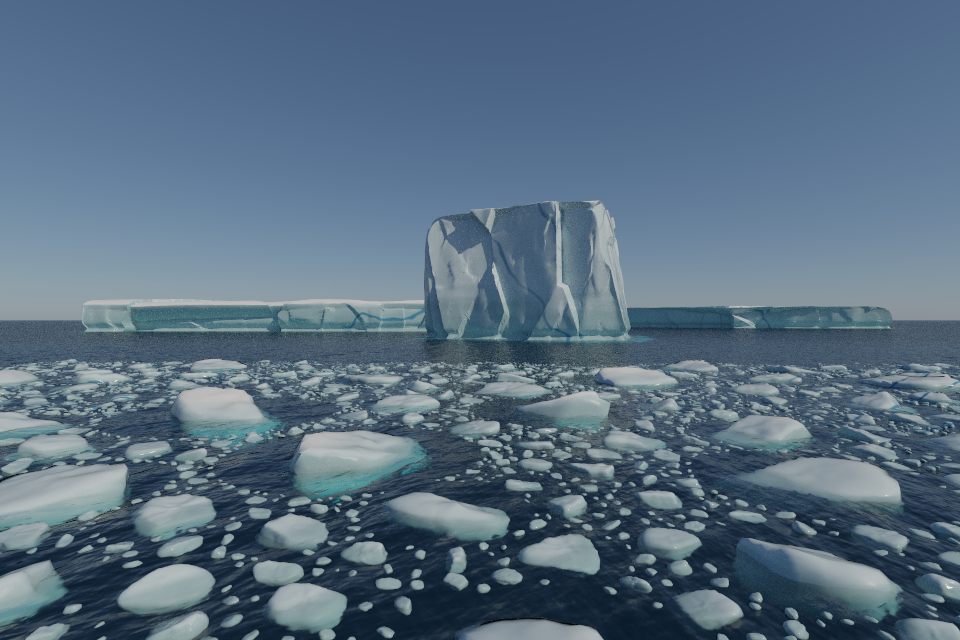
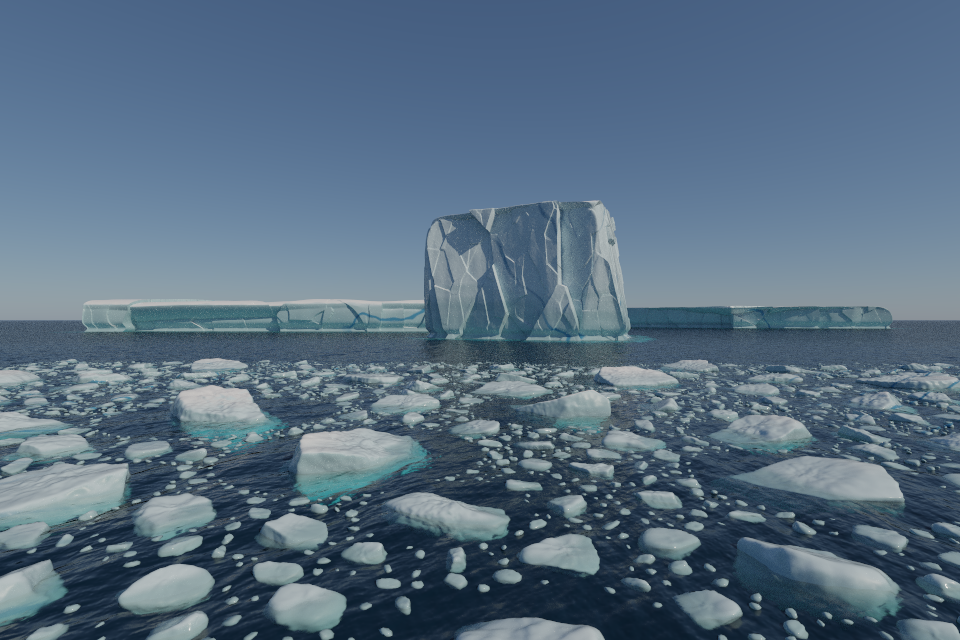
Icebergs at high resolution
Procedural geometry can be as fine as we like, so it is:
- bergs refine from a denser start, seven levels down to about a
  centimetre (several million triangles each), so steps between facets
  are 15 cm ramps rather than half a metre;
- melt scallops, shallow sharp-rimmed dimples a metre across, on berg
  faces and brash, now that the mesh resolves them;
- brash pieces get a geodesic sphere fine enough for 10-20 cm vertex
  spacing whatever their size;
- creased normals split a vertex only where its corners' normals
  differ, rather than giving every corner its own, so the dense meshes
  fit in memory (about 5 GB for the demo scene).

Claude-Session: https://claude.ai/code/session_01U8ZZipMaWkahSeibBW3vnt

diff --git a/src/procedural/iceberg.rs b/src/procedural/iceberg.rs
@@ -28,8 +28,8 @@
 //!   normals are smoothed only across gentle edges, so the facets' edges stay crisp
 //!   (`creased`); and the mesh is refined adaptively where the surface bends (`refine`), so
 //!   the facets' edges are straight rather than serrated by the triangles they cross;
-//! - erosion: a little lumpiness, and fine vertical flutes on the walls where meltwater runs
-//!   down;
+//! - erosion: a little lumpiness, fine vertical flutes on the walls where meltwater runs
+//!   down, and melt scallops, dimples a metre or so across and a few centimetres deep;
 //! - a wave-cut notch at the waterline, where the sea melts it fastest (the overhang that
 //!   eventually breaks off as a growler), and under it the ram, a shelf of ice jutting out
 //!   below the water, which glows turquoise through it; and a slight tilt, but for tabular
@@ -178,8 +178,8 @@ impl Iceberg {
 
         let (directions, triangles) = icosphere(detail);
         let directions: Vec<Vector3<f64>> = directions.iter().map(|d| d.component_mul(&axes).normalize()).collect();
-        // Steps between facets rise over half a metre (the mesh is refined to follow them).
-        let ramp = 0.5 / self.size;
+        // Steps between facets rise over 15 cm (the mesh is refined to follow them).
+        let ramp = 0.15 / self.size;
         let kind = self.kind;
         let size = self.size;
         // The body, cut and shaped, in the direction `d`.
@@ -237,7 +237,12 @@ impl Iceberg {
             let flutes = noise.noise(Vector3::new(q.x * 25., q.y * 1.5, q.z * 25.));
             let wall = 1. - top;
             let h = if rounded { 0.02 * lumps } else { 0.004 * lumps + 0.002 * flutes * wall };
-            (q + normal * h) * size
+            // Melt scallops: shallow dimples, a metre or so across and a few centimetres deep,
+            // that flowing water and air melt into ice faces, sharp-rimmed where they meet.
+            let w = q * size / 0.9;
+            let scallops = 0.035 * (1. - noise.noise(w + Vector3::new(31., 0., 17.)).abs() * 2.).max(0.)
+                + 0.012 * (1. - noise.noise(w * 2.7 + Vector3::new(3., 9., 5.)).abs() * 2.).max(0.);
+            (q + normal * h) * size - normal * scallops * (1. - 0.7 * top)
         };
         (surface, directions, triangles)
     }
@@ -279,7 +284,7 @@ impl Iceberg {
     /// The mesh floating with its waterline at `sea_level`, centred over `(x, z)`, turned by
     /// `yaw` (radians).
     pub fn mesh(&self, x: f64, z: f64, sea_level: f64, yaw: f64) -> IndexedMesh {
-        let base = self.detail.saturating_sub(2);
+        let base = self.detail.saturating_sub(1);
         let (shape, directions, triangles) = self.shape(base);
         let mut rng = Pcg32::new(self.seed, 29);
         // Bergs other than tabular ones float tilted, having rolled as they melted.
@@ -313,10 +318,10 @@ impl Iceberg {
             }
             p
         };
-        // Refined where the surface bends more than a few centimetres between vertices: along
-        // the facets' edges and steps, and the notch.
-        let tolerance = (0.0008 * self.size).clamp(0.02, 0.1);
-        let (positions, triangles) = refine(&directions, &triangles, &surface, 5, tolerance);
+        // Refined where the surface bends more than a centimetre or so between vertices: along
+        // the facets' edges and steps, the notch, and the scallops and flutes on the faces.
+        let tolerance = (0.0001 * self.size).clamp(0.005, 0.03);
+        let (positions, triangles) = refine(&directions, &triangles, &surface, 7, tolerance);
         println!("Iceberg: {} triangles", triangles.len());
         let mut mesh = IndexedMesh { positions, normals: vec![], triangles, texcoords: vec![] };
         // Floated at its waterline, ram and all.
@@ -454,28 +459,47 @@ impl Cleavage {
 }
 
 /// The mesh with its normals smoothed only across edges where the faces meet at less than the
-/// angle whose cosine is `crease`: sharper edges stay sharp. Each corner gets its own vertex.
+/// angle whose cosine is `crease`: sharper edges stay sharp. A vertex is split only where its
+/// corners' normals differ (along a crease), so a smooth mesh keeps its vertices.
 pub fn creased(mesh: &IndexedMesh, crease: f64) -> IndexedMesh {
+    use rayon::prelude::*;
     let p = &mesh.positions;
-    let face: Vec<Vector3<f64>> = mesh.triangles.iter().map(|&[a, b, c]| (p[b] - p[a]).cross(&(p[c] - p[a]))).collect();
-    let mut around: Vec<Vec<usize>> = vec![vec![]; p.len()];
+    let face: Vec<Vector3<f64>> = mesh.triangles.par_iter().map(|&[a, b, c]| (p[b] - p[a]).cross(&(p[c] - p[a]))).collect();
+    let unit: Vec<Vector3<f64>> = face.par_iter().map(|f| f.try_normalize(1e-300).unwrap_or_else(Vector3::zeros)).collect();
+    let mut around: Vec<Vec<u32>> = vec![vec![]; p.len()];
     for (t, tri) in mesh.triangles.iter().enumerate() {
-        for &v in tri { around[v].push(t); }
+        for &v in tri { around[v].push(t as u32); }
     }
-    let mut positions = Vec::with_capacity(3 * mesh.triangles.len());
-    let mut normals = Vec::with_capacity(3 * mesh.triangles.len());
+    // Each corner's normal: the faces round its vertex within the crease angle of its own.
+    let corners: Vec<[Vector3<f64>; 3]> = mesh.triangles.par_iter().enumerate().map(|(t, tri)| {
+        tri.map(|v| {
+            around[v].iter()
+                .filter(|&&u| unit[u as usize].dot(&unit[t]) >= crease)
+                .fold(Vector3::zeros(), |a, &u| a + face[u as usize])
+                .try_normalize(1e-300).unwrap_or(unit[t])
+        })
+    }).collect();
+    // A vertex per distinct normal at each original vertex.
+    let mut positions: Vec<Vector3<f64>> = Vec::with_capacity(p.len());
+    let mut normals: Vec<Vector3<f64>> = Vec::with_capacity(p.len());
+    let mut made: Vec<Vec<u32>> = vec![vec![]; p.len()];
     let mut triangles = Vec::with_capacity(mesh.triangles.len());
     for (t, tri) in mesh.triangles.iter().enumerate() {
-        let own = face[t].try_normalize(1e-300).unwrap_or_else(Vector3::zeros);
-        let start = positions.len();
-        for &v in tri {
-            let n = around[v].iter()
-                .filter(|&&u| face[u].try_normalize(1e-300).is_some_and(|f| f.dot(&own) >= crease))
-                .fold(Vector3::zeros(), |a, &u| a + face[u]);
-            positions.push(p[v]);
-            normals.push(n.try_normalize(1e-300).unwrap_or(own));
+        let mut out = [0usize; 3];
+        for k in 0..3 {
+            let (v, n) = (tri[k], corners[t][k]);
+            let found = made[v].iter().copied().find(|&i| normals[i as usize] == n || (normals[i as usize] - n).norm_squared() < 1e-10);
+            out[k] = match found {
+                Some(i) => i as usize,
+                None => {
+                    positions.push(p[v]);
+                    normals.push(n);
+                    made[v].push((positions.len() - 1) as u32);
+                    positions.len() - 1
+                }
+            };
         }
-        triangles.push([start, start + 1, start + 2]);
+        triangles.push(out);
     }
     IndexedMesh { positions, normals, triangles, texcoords: vec![] }
 }
@@ -691,14 +715,16 @@ impl FloeField {
         let floes = self.floes();
         let noise = SeededNoise::new(self.seed.wrapping_add(7));
         let mut rng = Pcg32::new(self.seed, 47);
-        let fine = icosphere(3);
-        let coarse = icosphere(2);
-        let tiny = icosphere(1);
+        // Geodesic spheres of each detail, so that whatever a piece's size its vertices are
+        // ten or twenty centimetres apart.
+        let spheres: Vec<(Vec<Vector3<f64>>, Vec<[usize; 3]>)> = (0..=6).map(icosphere).collect();
         let mut positions = vec![];
         let mut triangles = vec![];
         let fraction = 1. - 917. / SEA_WATER_DENSITY;
         for f in &floes {
-            let (directions, sphere) = if f.radius < 0.15 { &tiny } else if f.radius < 0.4 { &coarse } else { &fine };
+            // Each subdivision halves the spacing: detail n has edges of about 1.1 r / 2^n.
+            let detail = ((1.1 * f.radius / 0.15).log2().ceil().max(1.) as usize).min(6);
+            let (directions, sphere) = &spheres[detail];
             let r = f.radius * 0.9;
             let axes = Vector3::new(r, r * (0.25 + 0.5 * rng.next_f64()), r * (0.4 + 0.6 * rng.next_f64()));
             let offset = Vector3::new(rng.next_f64(), rng.next_f64(), rng.next_f64()) * 100.;
@@ -729,7 +755,11 @@ impl FloeField {
                     if along > 0. { s = smin(s, o / along, rounding); }
                 }
                 let lumps = lumpiness * noise.fbm(d * 1.6 + offset, 4);
-                rotation * (q * s.max(0.1) * (1. + lumps))
+                let q = q * s.max(0.1) * (1. + lumps);
+                // Melt scallops, as on the bergs, a few centimetres deep.
+                let w = q / 0.6 + offset;
+                let scallops = 0.025 * (1. - noise.noise(w).abs() * 2.).max(0.);
+                rotation * (q - d * scallops.min(0.1 * r))
             }).collect();
             let h = Iceberg::waterline(&piece, sphere, fraction);
             let lift = Vector3::new(f.x, self.sea_level - h, f.z);

diff --git a/docs/snow-and-ice.md b/docs/snow-and-ice.md
@@ -122,8 +122,11 @@ used by ice services:
 
 Each shape is fractured into faces and cleaved: its walls break along planes at two scales,
 slabs and chips, into tall flat facets that meet at sharp edges and steps, as where pieces
-have calved away (the dome alone is smooth). The mesh is refined where the surface bends, so
-the facets' edges stay straight and clean. Fine vertical meltwater flutes run down the
+have calved away (the dome alone is smooth). The mesh is refined wherever the surface bends,
+down to a centimetre or so, so the facets' edges are straight and the melt scallops (shallow
+dimples a metre across) show. A large berg has several million triangles, and a scene of a few
+takes a couple of minutes and a few gigabytes to build. `"detail"` (default 7) sets the
+starting mesh before refinement; lower it for quick tests. Fine vertical meltwater flutes run down the
 walls. It is tilted
 (except tabular bergs) and notched at the waterline by the waves. Below the notch, the ram is
 a shelf of ice that juts out under the water, broadest on one side. The berg floats as its
